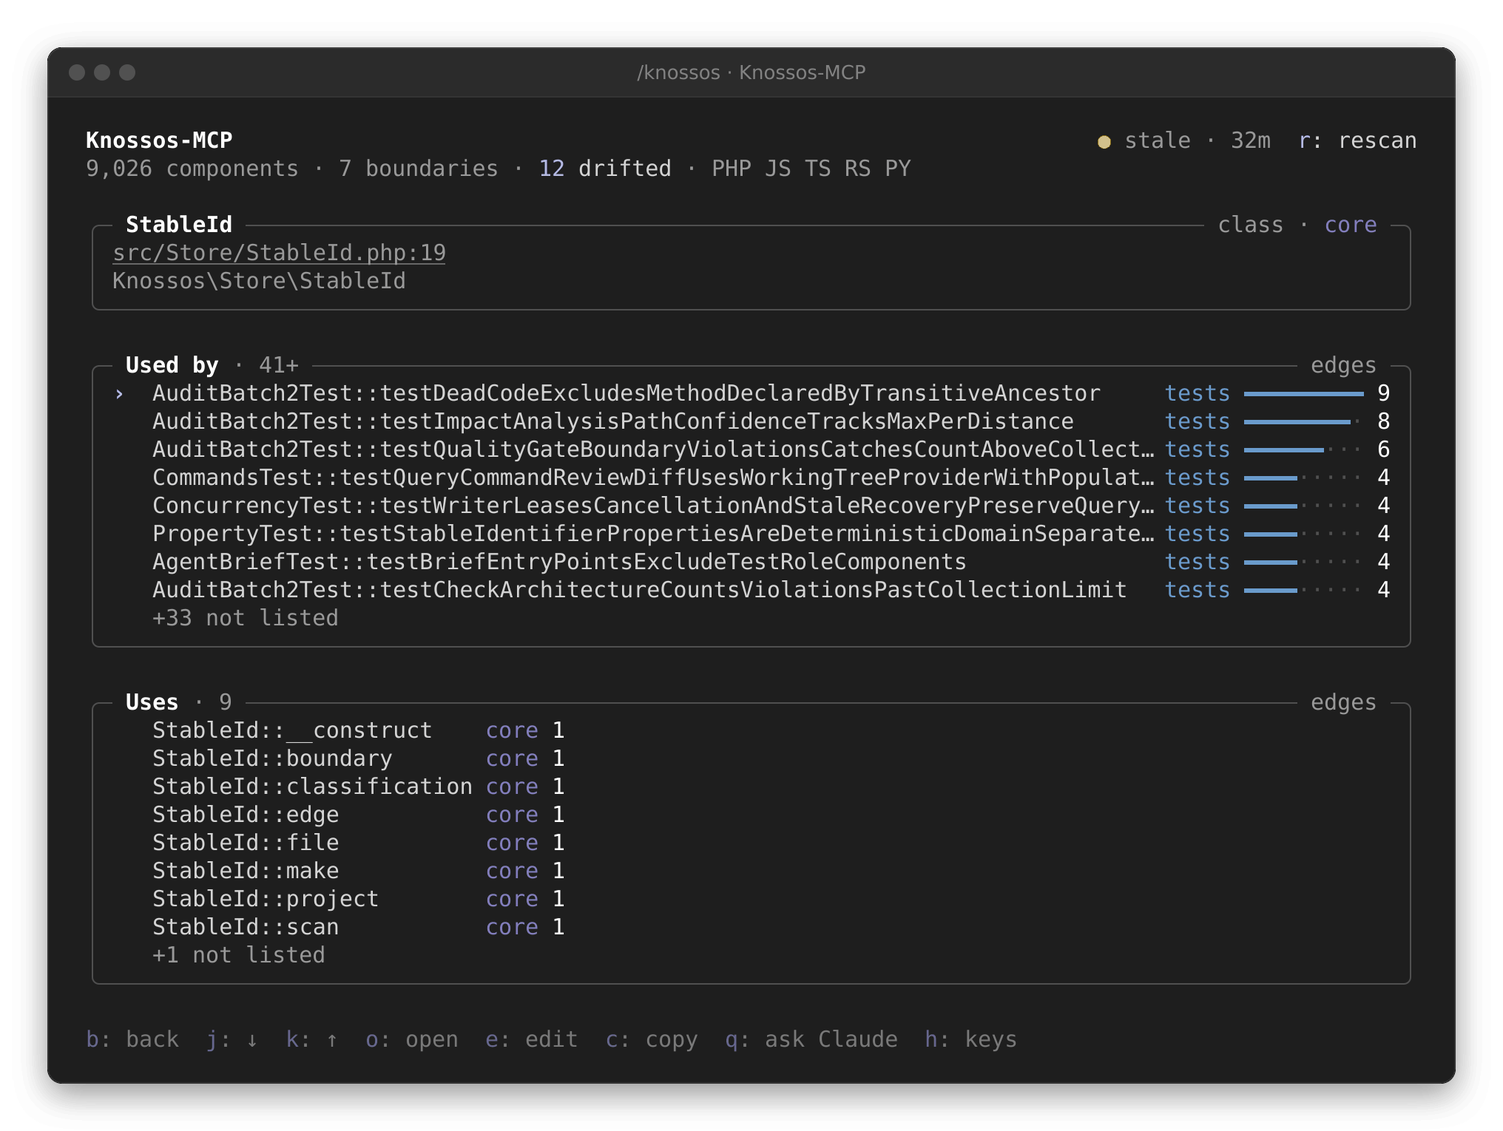
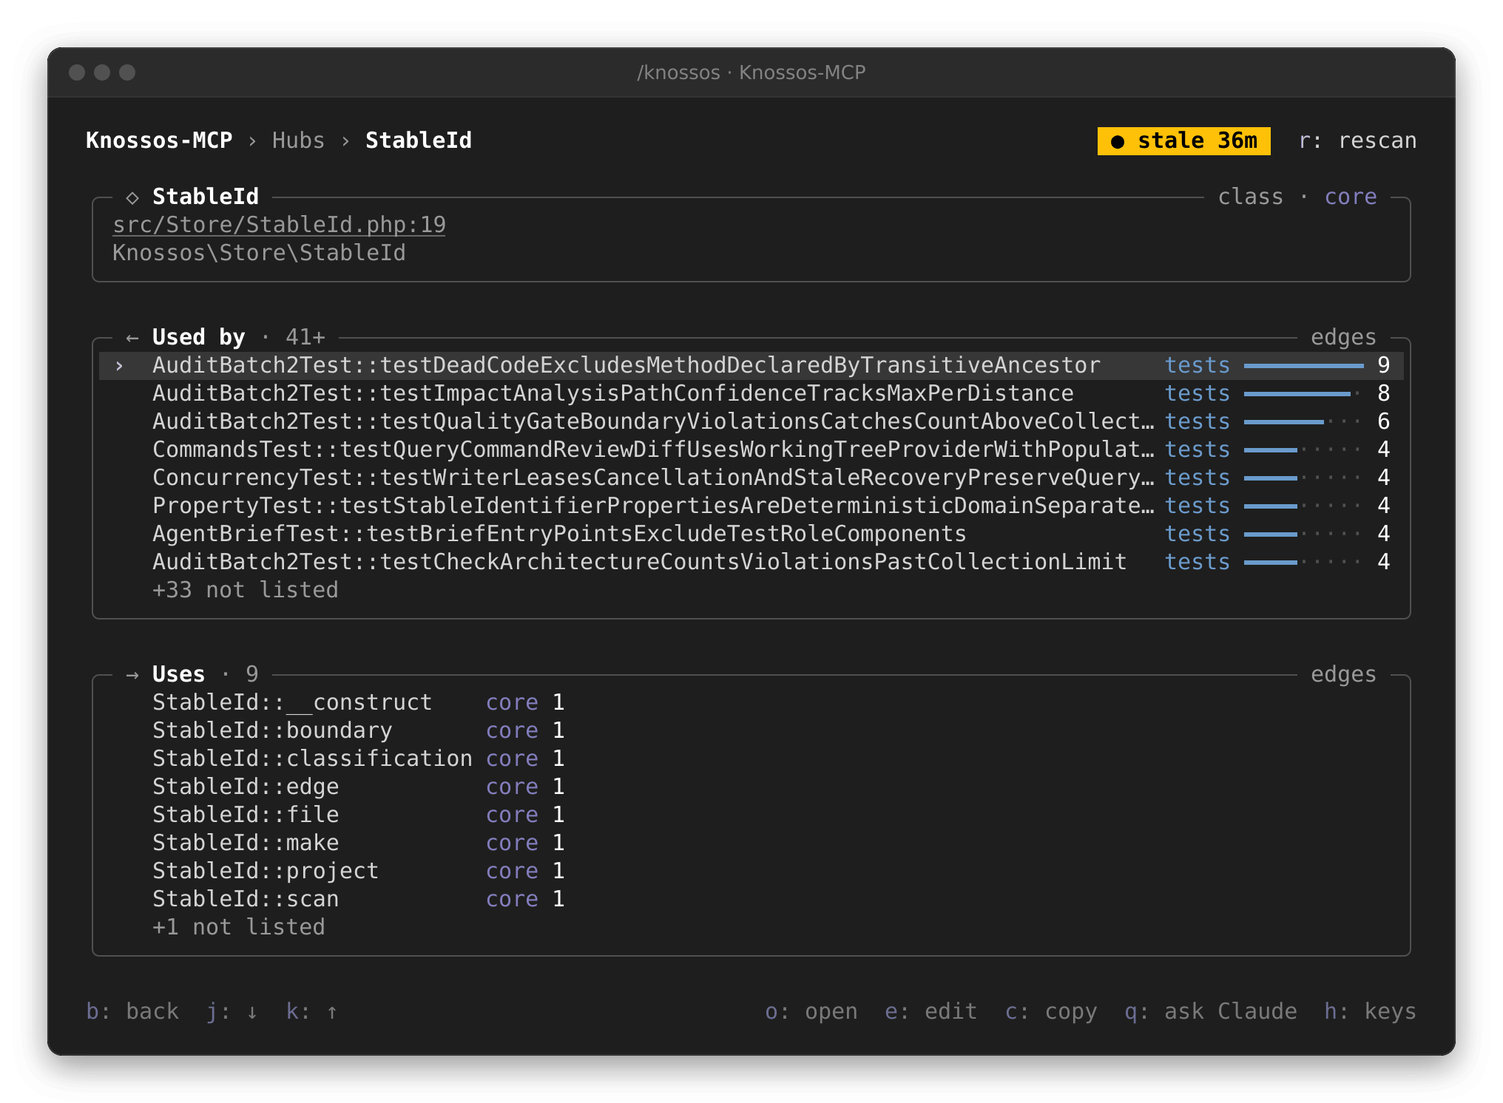
docs(mod): describe the two-row header, hover cards, the heat map's cell, coloured chains and the scan timeline, and redraw the README screenshots

diff --git a/docs/capabilities/claude-code-mod.md b/docs/capabilities/claude-code-mod.md
@@ -163,7 +163,12 @@ its body:
 
 A framed card is a thin rounded border in the theme's faintest colour, its
 title (and the section's note, such as `this session` or `all in core`) set
-into the top edge, one cell of padding inside. Cards stand one blank row
+into the top edge, one cell of padding inside. A small dim glyph before the
+title says what kind of card it is, the same on every tab: `◆` Look at now,
+`▤` Last turn, `◎` the most depended-on components, `≡` the files most
+depended on, `▦` the boundary map, `▥` the per-boundary table, `◈` the marked
+boundary, `⇄` the marked heat map cell, `↻` cycles, `⚠` the Issues cards,
+`±` changes, `✓` the tests that reach them, `∿` the trend, `◇` a detail. Cards stand one blank row
 apart. Wide, each tab arranges its cards in two columns: Overview puts the
 stat tiles across the top, "Look at now" and the last turn left and the most
 depended on right (with the trend under it when the pane has rows to spare),
@@ -173,8 +178,10 @@ depended on beside the components, the components' table taking the wider
 share; the detail
 sets "used by" beside "uses" with the change below both; Boundaries puts the
 map beside the per-boundary table and the marked boundary; Cycles spells out
-the marked cycle, a member a row, beside the list; Issues puts violations and
-diagnostics beside dead code and the largest files; Changes puts the tests
+the marked cycle, a member a row, beside the list; Issues sets its cards in
+rows of equal height (the cards with nothing to list side by side first,
+then the lists in pairs, a shorter card stretched inside its frame to its
+neighbour's height, so no column ends half way down); Changes puts the tests
 beside the files.
 
 Lists size themselves to the rows the pane's body has: every list starts at
@@ -199,6 +206,8 @@ its kind; the file column (`where`) may cut the few longest names (the
 longest tenth) rather than be lost. As the pane narrows, the kind goes first,
 then the file column, bars shorten, then long names are cut with `…`, then the
 boundary column goes, then the bars. The numbers always stay, right-aligned.
+In the narrow layout a table says its figures compactly (`31.7k`, `1.2M`); the
+stat tiles, the cards' notes and a detail keep them whole (`31,740`).
 
 The pane draws in your Claude Code theme's own colours (its theme keys), so it
 follows a dark, light, daltonized or ANSI theme. Colour carries meaning only:
@@ -209,22 +218,23 @@ boundary that got no colour of its own is drawn neutral rather than in a
 colour it would share by chance. Two boundaries whose short names differ only
 in case (an inferred `namespace:Knossos` beside a `composer:…/knossos`) keep
 their source in the label, `namespace:Knossos` and `composer:knossos`, so they
-never read as one. The status dot is `success` for a fresh or live snapshot,
-`warning` for a stale one or a scan under way and `error` when a refresh or
-rescan failed, and the accent marks the selection and the active tab. Everything
-else is neutral: names, headings and figures in the theme's text colour,
+never read as one. The status is a pill on the status colour: `success` for a
+fresh or live snapshot, `warning` for a stale one or a scan under way and
+`error` when a refresh or rescan failed, its words in the theme's text for a
+fill. The open tab stands on the theme's selection colour, the marked row of
+a list on a faint tint (Claude Code's own prompt background) from one edge of
+its card to the other, its `›` kept for a terminal that draws no
+backgrounds, and the accent marks the `›` itself. Everything else is neutral: names, headings and figures in the theme's text colour,
 units and notes in its secondary grey (a note's figures stay at full
 contrast: `3 files → 594 dependents`), bar tracks and empty cells fainter
 still. Bars are thin rules on a dotted track.
 
 ```text
-Knossos-MCP                         ● stale · 11h  r: rescan
-7,878 components · 7 boundaries · 46 drifted · PHP JS RS
-1: Overview  2  3  4  5  6³
-━━━━━━━━━━━─────────────────────────────────────────────────
+Knossos-MCP                          ● stale 11h   r: rescan
+ Overview   2   3   4   5   6³
 
-2 cycles   161 max degree   55 dead code   0 policy
-0 diagnostics
+7,878 components   7 boundaries   2 cycles   161 max degree
+55 dead code   46 drifted   0 policy   0 diagnostics
 
 ── Look at now ───────────────────────────── this session ──
 ›  TurnBriefService.php core · 21 dependents
@@ -241,16 +251,18 @@ Knossos-MCP                         ● stale · 11h  r: rescan
    4 more ↓
 ```
 
-That is the narrow layout (60 columns): the stat tiles collapse to a line of
-the figures the summary line does not already say. From 80 columns the tiles
+That is the narrow layout (60 columns): the header is the project's name and
+the status pill, then the tabs, the open one by its name on the selection
+colour and the others by their digit; the stat tiles collapse to a line of
+their figures. From 80 columns the header names where the checkout stands
+and the project's languages, and the tiles
 are a framed band across the Overview, a faint rule between them, spread
 evenly; they wrap onto as few lines as hold them when they do not fit on one.
 A figure is in the text colour unless it deviates: cycles and diagnostics
 above zero in `warning`, policy violations in `error`, drifted files in the
-accent. A tile shows its trend when it has room and the series moves. The
-summary line then keeps only the languages, and the drifted tile's label is
-the button that lists the drifted files. Each card is framed, and its tables
-add columns:
+accent. A tile shows its trend when it has room and the series moves. The drifted
+tile's label is the button that lists the drifted files. Each card is framed,
+and its tables add columns:
 
 ```text
 ╭──────────────────────────────────────────────────────────────────────────────────────────────────╮
@@ -264,13 +276,30 @@ add columns:
 ╰────────────────────────────────────────────────────────────────────────╯
 ```
 
-The line under the project counts its components, its declared boundaries
-(every boundary when none is declared), the files drifted since the snapshot
-and its languages. A narrow pane drops the languages first. When the dashboard
-names the drifted files, their count is drawn in the accent and the word after
-it is a button, the one thing on that quiet line you can press; `d` does the
-same: it lists the drifted files right there,
-under the header, each marked as Changes marks a file (`+` added, `−`
+```text
+Knossos-MCP  feat/claude-code-mod · 610c773  PHP  JS  TS  RS     ● stale 16s   r: rescan
+ Overview   Hubs   Boundaries   Cycles   Issues¹   Changes⁸
+```
+
+The header is two rows. The first names the project in bold, where its
+checkout stands (the branch and the short commit, dim; the commit alone on a
+detached head, nothing outside git), the languages as small chips, and
+against the right edge the status pill, why it is so when the pill does not
+say (a rescan's reason, a stuck leader) and `r: rescan` when a rescan would
+change anything. Where the checkout stands is read through the wrapper's
+`knossos session-head` (which names the branch beside the commit) at
+start-up, sharing the session's own baseline read, and again after each of
+the main loop's turns, never while the pane draws. As the pane narrows the
+chips go first, then the commit, the branch and the reason. In a detail the
+first row is the way back: `Knossos-MCP › Hubs › StableId`. The second row is
+the tab bar: each tab by its name, with the Issues and Changes counts as
+superscript badges (`Issues³`), the open one on the selection colour; where
+the names do not fit, and always when narrow, the others by their digit. The
+digits that switch tabs are said in the `h` help, not on the bar.
+
+When the dashboard names the drifted files, the drifted tile's label is a
+button that lists them, and `d` does the same on every tab: it lists the
+drifted files right there, under the tabs, each marked as Changes marks a file (`+` added, `−`
 deleted) with its own boundary, the first twenty by path and how many more.
 While they are listed the marker walks them: `o` opens a file's detail as the
 snapshot holds it, `e` the file itself. `d` again, or a tab, hides them.
@@ -301,6 +330,12 @@ Drifted since the snapshot                                 3
   the pane has rows left after its lists, a chart several rows tall, a column
   per snapshot, the highest and lowest figure on its axis (on the terminal a
   `Raster` in the accent, where no pressable row shares its lines).
+  Resting the pointer on a component or file row (where the surface has a
+  pointer: not on mobile) shows a card over the rows below it, without
+  opening anything: its name and boundary, how many files depend on it (and a
+  component's in- and out-degree), and the three files that depend on it most
+  (the dashboard names them for every listed component and the first fifty
+  files). The surface reveals it alone; nothing reaches the mod.
 - **Hubs:** hubs and hotspots as one list, one row per component, with its
   boundary and its in, out and cross-boundary degree, and beside them (below
   them when narrower) the files most depended on, each with how many files
@@ -311,7 +346,7 @@ Drifted since the snapshot                                 3
   field: the list narrows as you type to the components whose name holds the
   text, Enter keeps the filter and `x` clears it. `s` sorts by in, out or
   cross-boundary degree in turn; the bar follows the sort, and the title says
-  it (`Hubs and hotspots · sorted by in`). The sorted column's numbers are in
+  it (`Hubs and hotspots · sorted by in`). A row shows its hover card here too. The sorted column's numbers are in
   the text colour and the other two are dimmed. When every listed row sits in
   one boundary, the boundary column goes and the header says it once
   (`all in core`); otherwise a row in the same boundary as the row above
@@ -319,10 +354,10 @@ Drifted since the snapshot                                 3
   The same holds for Overview's most depended on, and the last turn dims its
   repeats. `e` opens a hub's file at its declaration, as on Overview.
 - **Cycles:** each dependency cycle, the largest first, as a chain of its
-  members (`a → b → c ↺`) wrapped to the pane's width, under a line naming
-  the boundary most of them are in. A member outside that boundary is drawn
-  in its own boundary's colour, with a legend: that is where the cycle
-  crosses. The ten largest are listed. `j` and `k` mark a cycle: `o` opens
+  members (`↻ a → b → c → ↻`) wrapped to the pane's width, under a line naming
+  the boundary most of them are in. Every hop is drawn in its own boundary's
+  colour, with a legend, so the eye sees where the loop crosses from one
+  boundary into another. The ten largest are listed. `j` and `k` mark a cycle: `o` opens
   the member where it leaves its own boundary (its uses include the edge that
   closes the loop), `c` copies the whole chain, and `q` asks Claude how to
   break it.
@@ -331,7 +366,7 @@ Drifted since the snapshot                                 3
   candidates (`◇` marks one only tests reach) and the fifty largest files,
   each list as long as the height allows.
   The tab label carries the count of violations, errors and warnings, as in
-  `Issues ³`.
+  `Issues³`.
 - **Changes:** everything that changed in the project since this session
   began, whoever changed it: the session's own turns and subagents, your
   editor, a checkout. While the live watcher runs, the list comes from the
@@ -341,7 +376,12 @@ snapshot>`, read again after each scan the watcher sees, one read at a
   the session's own Edit, Write or NotebookEdit calls (main loop or subagent)
   wrote it, or when a scan that changed it took in changes made while one of
   the session's tool calls ran; `outside` otherwise. The header then reads
-  `since it began`. With
+  `since it began`. Above the files a thin row draws the session's scans, a
+  dot each, oldest first: in the accent for one that took in the session's
+  own changes, dim for one that took in changes made outside it, then how
+  many of each (`session-changes` lists the scans since the session began,
+  the newest 60). A row too short for all of them keeps the newest behind a
+  `…`. With
   no watcher (switched off, or a container install) the tab falls back to
   what the session's turn briefs reported, added up, and says so; it does the
   same when the ledger cannot account for every scan since the session began.
@@ -408,10 +448,29 @@ snapshot>`, read again after each scan the watcher sees, one read at a
   nothing to open; `c` copies the boundary's name and `q` asks Claude what
   its dependencies are for.
 
+    The marker also stands on one cell of the map: the marked boundary's row,
+    in the column of what it depends on most. The cell is a solid tile in the
+    theme's text colour, its row label and column letter on the marked row's
+    tint. `l` moves it to the next boundary the marked one depends on (most
+    first, coming round again: `h` already lists the keys, so the cell steps
+    one way), as does a press on one of those boundaries in the marked boundary's
+    card; marking another boundary starts on its own top dependency. Under the
+    marked boundary the cell is spelled out: `tests → core`, how many
+    dependencies run that way (red, `forbidden`, where a policy forbids the
+    pair) and the five component pairs that make up most of them
+    (`source → target` and their edges). They are read by
+    `knossos boundary-couplings --from=<boundary> --to=<boundary>` (the same
+    bounded walk as the map, once per cell and snapshot) on a timer, never while
+    the pane draws; the card says it is reading meanwhile.
+
 ```text
 G tooling
    depends on   core 18  hooks 4
    used by      nothing outside itself
+
+tests → php-worker                                      11 deps
+   PhpScannerReceiverFactsTest::scan → PhpScanner             1
+   PhpScannerTest::testAScannerRead… → UnreadableFileException 1
 ```
 
 ```text
@@ -440,17 +499,22 @@ Tests that reach these changes · 3              hops
      hooks/lib/changes.spec.ts
 ```
 
-Every action is a button, so a click works as well as its key: `1` to `6`
-switch tabs, `j` and `k` move the `›` marker (as does moving the focus with
+Every action is a button, so a click works as well as its key. The footer
+groups them: moving about (`j`, `k`, and `b` in a detail) dim on the left,
+what can be done to the marked row on the right, only the keys that do
+something in the view on show. For a moment after an action the footer says
+what it did, between the two (`✓ copied StableId`, `✓ opened in editor`,
+`✗ no editor · path copied`, in the success or error colour); the mod's age
+tick lets it fade after about two seconds. `1` to `6` switch tabs, `j` and `k` move the `›` marker (as does moving the focus with
 Tab or the arrows onto a row), `o` or Enter opens the marked row, `e` opens
 the marked row's file in your editor, `c` copies and `q` asks about it, `t`
-copies the test command, `d` lists the drifted files, `b` goes back, `h`
-lists the keys, one a line. The keys mean the same on every tab. A component
+copies the test command, `d` lists the drifted files, `l` moves the
+Boundaries tab's cell, `b` goes back, `h` lists the keys, one a line. The keys mean the same on every tab. A component
 opens from the Overview, Hubs, Cycles and Issues tabs and from a detail; the
 pane looks it up by its canonical name. A file opens from Overview ("Look at
 now" and the last turn), Changes, the drifted files and a file's detail. Back
 on the tab, the marker stands where the detail was opened from. Numbers of four digits or more are grouped
-(`10,867`).
+(`10,867`), or compact in a narrow table.
 `/knossos inspect <component>` opens the pane on one component directly.
 
 ```text
@@ -542,14 +606,14 @@ tab's tests. It is a Markdown `file:` link (`#L<line>` names the
 line), so a ctrl- or cmd-click opens it as a link in one of Claude's replies
 would. A plain click, and `e` on the marked row (or on what the detail shows), runs `code -g <path>:<line>`, which VS Code
 and its forks answer; where no such command answers, the pane copies
-`path:line` to your clipboard instead and says so in a toast. A terminal
+`path:line` to your clipboard instead and its footer says so. A terminal
 editor from `$EDITOR` cannot be started this way: it needs a terminal of its
 own.
 
 Two more keys act on the marked row, or on what the detail shows:
 
 - `c` copies its canonical name (a file's path) to the clipboard of the surface you pressed
-  it on, and says so in a toast.
+  it on, and the footer says so.
 - `q` asks Claude about it. Your press submits the one prompt below (on
   Cycles, how to break the marked cycle; on Boundaries, what the marked
   boundary's dependencies are for). It is the only prompt the mod ever
@@ -578,13 +642,14 @@ ranks hubs and hotspots stops at its limit (five seconds on a cold, large
 graph), the lists say `partial`.
 
 Every time the pane opens, by `/knossos`, `[ details ]` or on start, it
-reloads the dashboard. The header gives the snapshot's age, which keeps
-counting while the pane is open. While the live watcher keeps a fresh graph
-current, the header says `● live` instead (`● live · watched by another
-session` when another session's watcher leads, and `fresh · 4s · another
-session's watcher is stuck` when that watcher stopped answering), and
-`● scanning… · fresh · 4s` while the watcher scans. When a reload fails, the
-pane keeps the figures it had and the header says `refresh failed · 2m`.
+reloads the dashboard. The header's pill gives the snapshot's state and age
+(`● stale 38m`), which keeps counting while the pane is open. While the live
+watcher keeps a fresh graph current, it says `● live · 7s` instead, the age
+since the graph last moved (`● following · 7s` when another session's
+watcher leads; `● fresh 4s` with `another session's watcher is stuck` beside
+it when that watcher stopped answering), and `● scanning…` while the
+watcher scans. When a reload fails, the pane keeps the figures it had and
+the pill says `● refresh failed 2m`.
 
 With no figures to draw yet, the pane says which of three things is the
 case: `Reading the graph…` while the first load is on its way; `Could not
@@ -598,9 +663,9 @@ no prompt.
 When the snapshot is stale or files drifted since it, the header offers
 `r: rescan`. It runs an incremental scan (`knossos rescan`) under the same
 rules as the turn's scan, shows `scanning…` meanwhile with the state and age
-of the figures still on show (`scanning… · stale · 2h`), and reloads the pane
-when it is done. A rescan that does not land says why in the header and
-leaves the figures as they were.
+of the figures still on show (`scanning… · stale 2h`), and reloads the pane
+when it is done. A rescan that does not land turns the pill to
+`● scan failed`, says why beside it, and leaves the figures as they were.
 
 `openPaneOnStart` opens it when a session starts. A pane opened that way,
 without you asking, only takes its place at 144 terminal columns or more; on
@@ -777,7 +842,9 @@ one log line and turns the band and pane off for the session.
 The wrapper bounds each call: 60 seconds for `turn-brief` and the pane's
 rescan, 30 for `dashboard` (a first dashboard of a large project walks the
 whole graph), 15 for `component-detail`, `file-detail`, `session-changes`,
-`session-head`, `session-diff` and `allow-root`. `session-diff` takes only a
+`session-head`, `session-diff`, `boundary-couplings` and `allow-root`.
+`boundary-couplings` takes exactly `--from=` and `--to=`, in that order, each
+a printable, non-empty boundary name. `session-diff` takes only a
 hex commit id and a file inside the project directory. The container
 wrapper takes the same commands with the same checks, except `watch`.
 `watch` is not bounded: the wrapper replaces itself with the watcher, so

diff --git a/README.md b/README.md
@@ -397,9 +397,11 @@ boundaries, cycles, the largest degree, dead code, drift, policy violations and
 diagnostics), coloured only where a figure needs your attention, then leads with the file
 this session touched that most of the project depends on, marked: `o` lists the files that depend on it, `e` opens it in your
 editor, and `t` copies the command for the tests that reach the changes. It draws in your
-Claude Code theme's own colours. A live watcher, one per project shared by your sessions,
-rescans as files change, so the header reads `● live` and the figures follow your edits and
-Claude's without a rescan. A container install has no watcher: there the figures follow each
+Claude Code theme's own colours. The header names the project, its branch and commit and its
+languages, with the status as a pill. A live watcher, one per project shared by your
+sessions, rescans as files change, so the pill reads `● live · 7s` and the figures follow
+your edits and Claude's without a rescan. Resting the pointer on a component or file shows
+the three files that depend on it most, without opening it. A container install has no watcher: there the figures follow each
 turn's own scan, and the pane's `r` rescans on request.
 
 <picture>
@@ -410,7 +412,8 @@ turn's own scan, and the pane's `r` rescans on request.
 The Changes tab lists everything that changed in the project since the session began,
 whoever changed it, each file marked `this session` (Claude's own edits, subagents included)
 or `outside` (your editor, a checkout): with its dependents and its boundary, the tests that
-reach them, nearest first, and the command that runs them. Without a watcher it adds up what
+reach them, nearest first, and the command that runs them. A thin row of dots above the files
+shows the session's scans, Claude's and everyone else's apart. Without a watcher it adds up what
 the session's turns reported instead, and says so. Every file there opens to the files that
 depend on it.
 
@@ -418,11 +421,13 @@ depend on it.
 
 The Boundaries tab maps how much each boundary depends on each other one, with the pairs a
 policy forbids in red. Marking a boundary spells out what it depends on, what depends on it,
-and what it may not use.
+and what it may not use, and marks its cell on the map: the component pairs behind that
+cell are listed under it, and `l` steps to the next one.
 
-![The Boundaries tab with core marked](docs/images/claude-code-mod/boundaries-marked-dark.png)
+![The Boundaries tab with tests marked and its cell on php-worker spelled out](docs/images/claude-code-mod/boundaries-cell-dark.png)
 
-The Cycles tab lists each dependency cycle as a chain. Marking one lets you open the member
+The Cycles tab lists each dependency cycle as a chain, every hop in its boundary's colour.
+Marking one lets you open the member
 where it crosses its boundary, copy the chain, or ask Claude how to break it.
 
 ![The Cycles tab](docs/images/claude-code-mod/cycles-dark.png)
